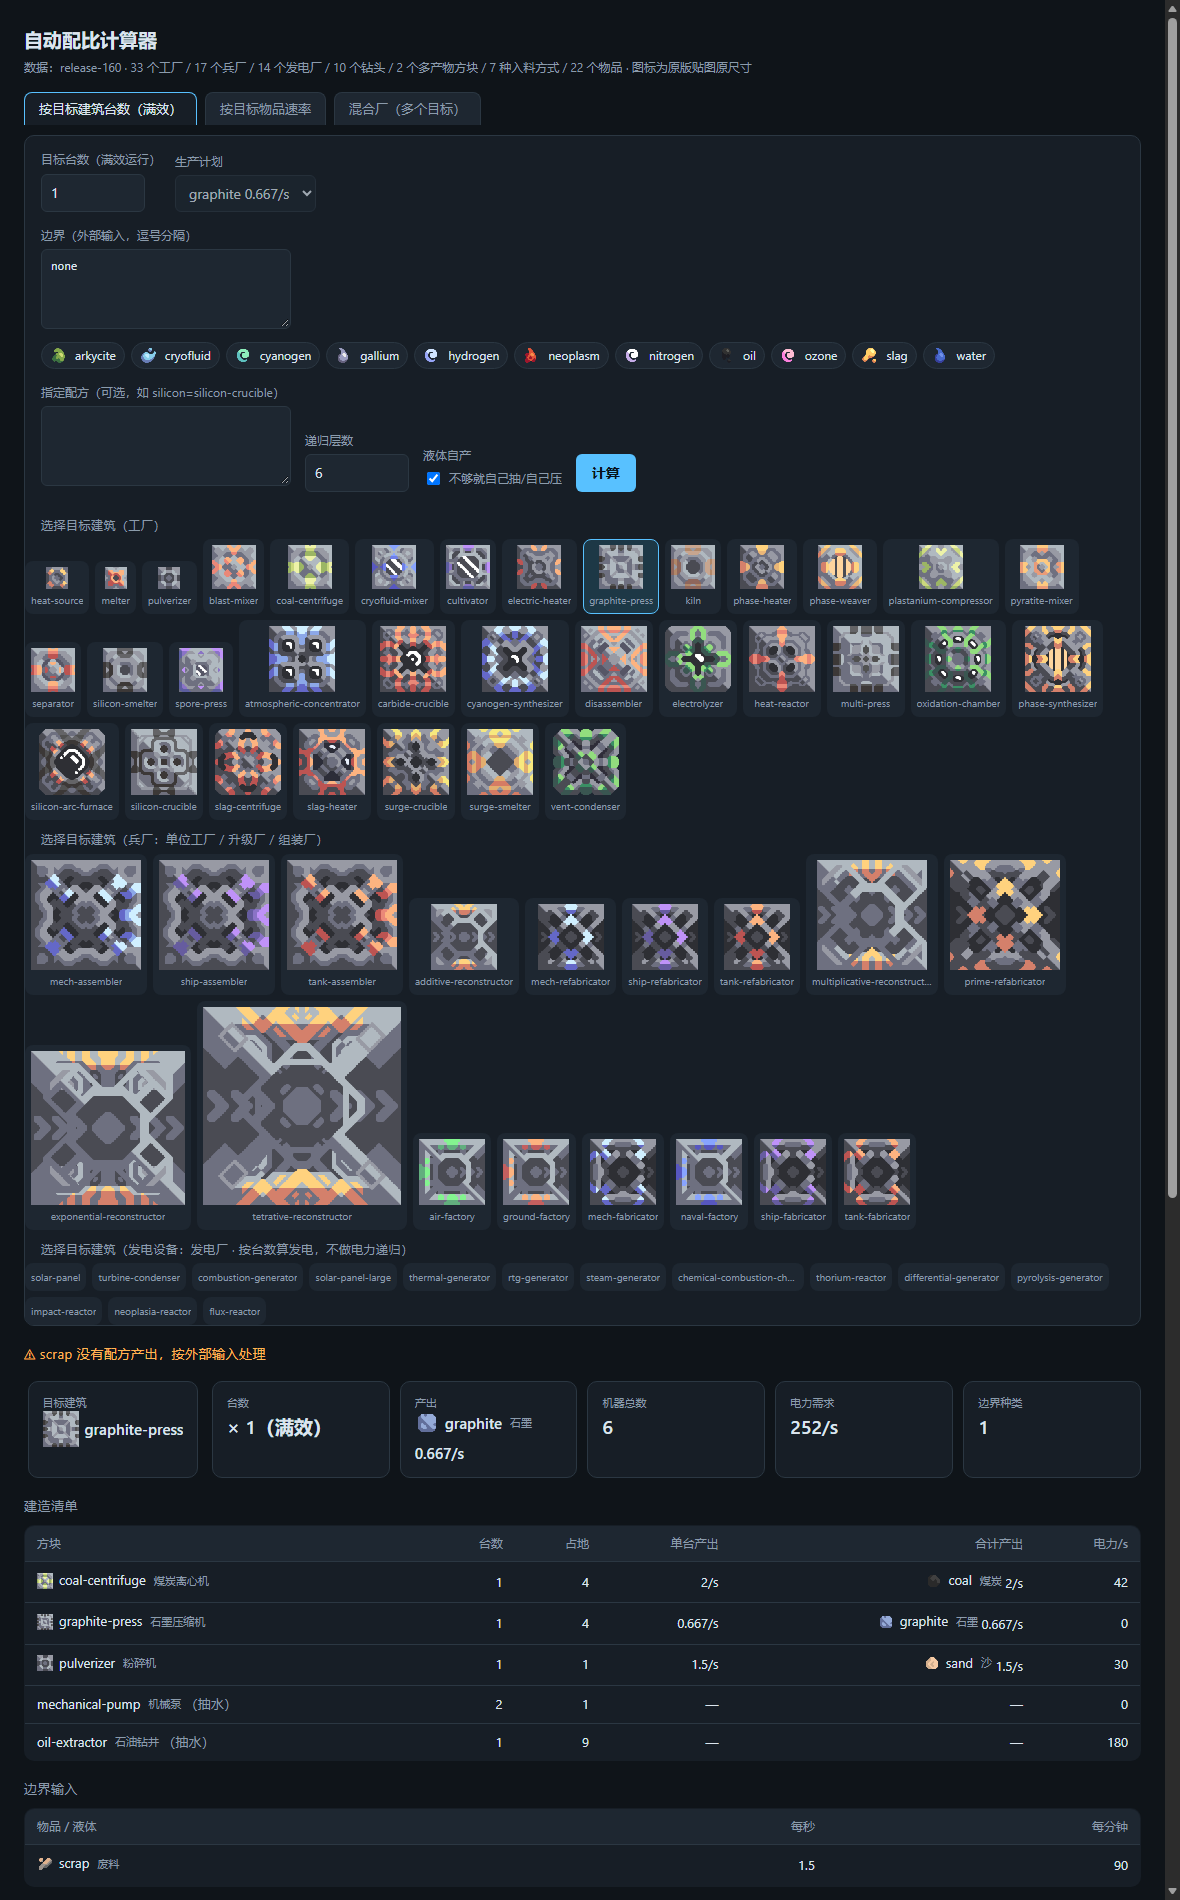
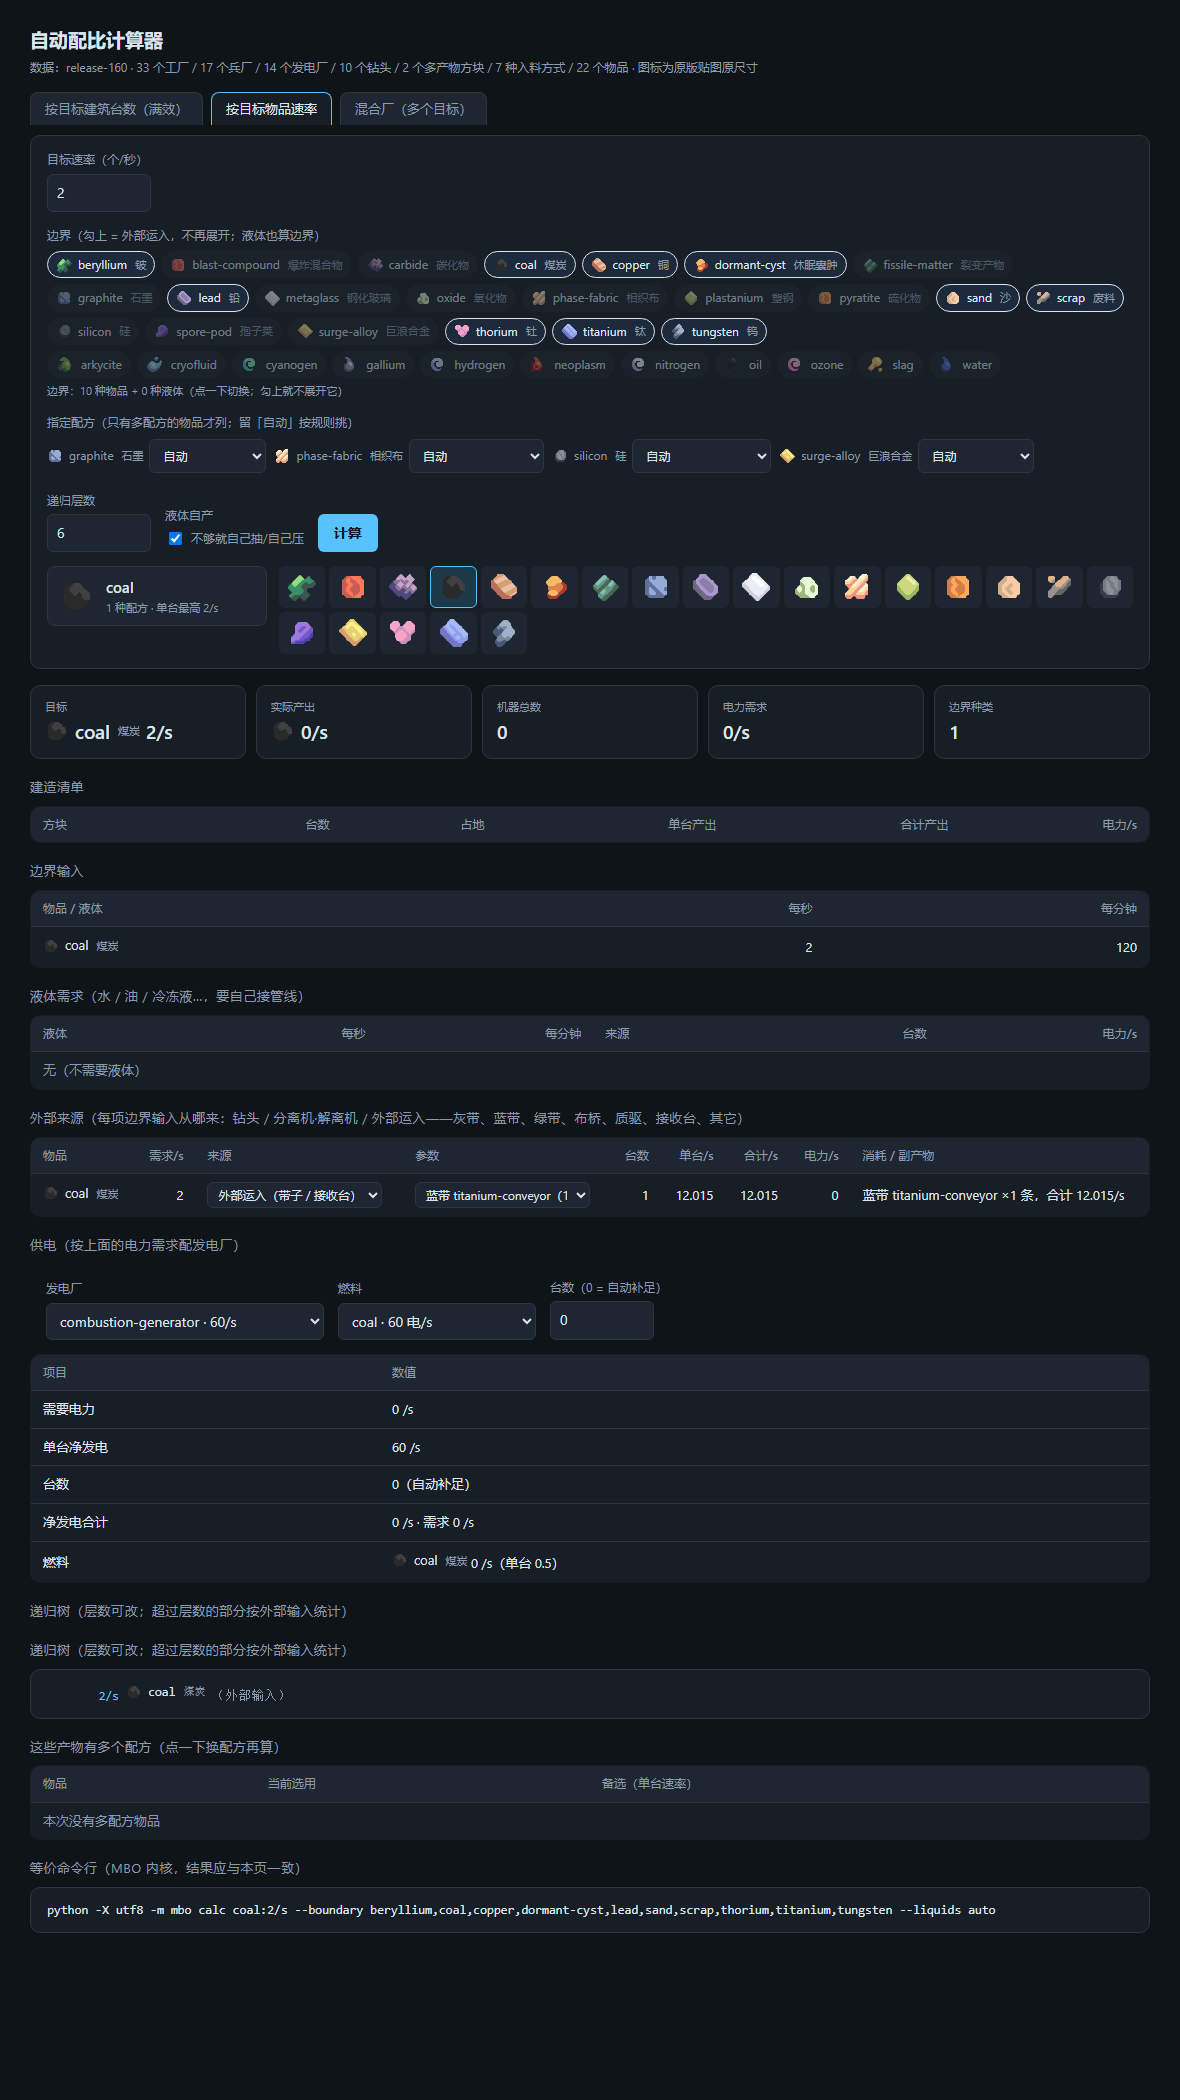
feat(ratio-calc): 边界改成全物品/液体开关、配方改成下拉，钻头并入工厂配比
- 页面不再有逗号文本输入：边界 = 22 物品 + 11 液体的芯片开关（点一下切换，勾上即外部运入），
  指定配方 = 每个多配方物品一行下拉（默认「自动」），两者都直接驱动 core，不再解析文本
- 钻头不再是「外部来源」里的另一类：machineRows 从 sources 取采集量，机器行写
  「laser-drill ×1 · 电 66/s · coal 3.234/s」，台数与电力计入工厂合计（页面/CLI/卡片一致）
- 卡片：机器行显示钻头采集量，抽水与外部电力换算保持独立小节
- 测试：core 148 行 ok、cli 55 项、page 88 项、card 10 项；gate 12/12

diff --git a/ratio-calc/index.html b/ratio-calc/index.html
@@ -83,7 +83,15 @@
   tr:last-child td { border-bottom: 0; }
   .sec { font-size: 13px; color: var(--dim); margin: 18px 0 8px; letter-spacing: .04em; }
   /* 混合厂目标清单 */
-  .mixlist { display: flex; flex-wrap: wrap; gap: 6px; margin-top: 6px; min-height: 26px; }
+  .mixlist{display:flex;flex-wrap:wrap;gap:6px;margin-top:6px;min-height:26px}
+  .barcol{flex:1 1 100%}
+  .hint{font-size:11px;color:var(--dim);margin-top:4px}
+  .chkgrid{display:flex;flex-wrap:wrap;gap:6px;margin-top:6px}
+  .chkgrid .chiptag{cursor:pointer;opacity:.45;border-color:transparent}
+  .chkgrid .chiptag.on{opacity:1;border-color:var(--accent);background:rgba(90,160,255,0.10)}
+  .forcerows{display:flex;flex-wrap:wrap;gap:8px;margin-top:6px}
+  .forcerow{display:flex;align-items:center;gap:6px;font-size:12px}
+  .forcerow select{max-width:210px}
   .chiptag { display: inline-flex; align-items: center; gap: 4px; padding: 3px 8px; font-size: 12px;
              background: var(--panel2); border: 1px solid var(--line); border-radius: 999px; }
   .chiptag img { image-rendering: pixelated; }
@@ -135,14 +143,17 @@
         <label for="rate">目标速率（个/秒）</label>
         <input id="rate" type="number" min="0.01" step="0.01" value="1">
       </div>
-      <div>
-        <label for="boundary">边界（外部输入，逗号分隔）</label>
-        <textarea id="boundary" spellcheck="false"></textarea>
-        <div class="mixlist" id="bndliq"></div>
+      <div class="barcol">
+        <label>边界（勾上 = 外部运入，不再展开；液体也算边界）</label>
+        <div class="chkgrid" id="bnditems"></div>
+        <div class="chkgrid" id="bndliqs"></div>
+        <div class="hint" id="bndhint"></div>
+        <input id="boundary" type="hidden">
       </div>
-      <div>
-        <label for="force">指定配方（可选，如 silicon=silicon-crucible）</label>
-        <textarea id="force" spellcheck="false"></textarea>
+      <div class="barcol">
+        <label>指定配方（只有多配方的物品才列；留「自动」按规则挑）</label>
+        <div class="forcerows" id="forcelist"></div>
+        <input id="force" type="hidden">
       </div>
       <div>
         <label for="depth">递归层数</label>
@@ -274,6 +285,8 @@
 
   var mode = "building";
   var curBlock = "graphite-press";
+  var boundarySet = new Set();  // 边界：物品 + 液体，都是开关
+  var forced = {};              // 指定配方：item -> block
   var mixTargets = [];        // 混合厂目标清单：[{block, count}]
 
   function img(src, cls, alt) {
@@ -312,8 +325,9 @@
   var defaults = new Set(
     names.filter(function (n) { return !idx.producersOf(n).length; }).concat(["coal", "sand"])
   );
-  el("boundary").value = Array.from(defaults).sort().join(", ");
-  renderBndLiq();
+  boundarySet = new Set(defaults);
+  renderBoundary();
+  renderForce();
 
   // 物品下拉（物品模式的取值来源）
   var targetSel = el("target");
@@ -977,9 +991,14 @@
     if (q.count && parseInt(q.count, 10) > 0) el("count").value = q.count;
     if (q.rate && parseFloat(q.rate) > 0) el("rate").value = q.rate;
     if (q.depth && parseInt(q.depth, 10) > 0) el("depth").value = q.depth;
-    if (q.boundary) el("boundary").value = q.boundary.replace(/\+/g, " ");
+    if (q.boundary) boundarySet = new Set(splitList(q.boundary.replace(/\+/g, " ")));
     if (q.liquids === "auto" && el("autoliq")) el("autoliq").checked = true;
-    if (q.force) el("force").value = q.force.replace(/\+/g, " ");
+    if (q.force) {
+      splitList(q.force.replace(/\+/g, " ")).forEach(function (part) {
+        var eq = part.indexOf("=");
+        if (eq > 0) forced[part.slice(0, eq).trim()] = part.slice(eq + 1).trim();
+      });
+    }
     if (q.mode === "item") mode = "item";
     if (q.mode === "mixed") mode = "mixed";
     // 混合厂：?mode=mixed&mix=silicon-arc-furnace:1,carbide-crucible:1
@@ -1041,24 +1060,46 @@
     (DATA.channels || []).length + " 种入料方式 / " +
     names.length + " 个物品 · 图标为原版贴图原尺寸";
 
-  /* 边界液体：点芯片把液体名加进/移出「边界」文本域（液体也是边界，列出来才知道煤处理线断在哪） */
-  function boundaryNames() { return splitList(el("boundary").value); }
-  function renderBndLiq() {
-    var cur = boundaryNames();
-    var liqs = Object.keys(DATA.liquid_icons || {}).sort();
-    el("bndliq").innerHTML = liqs.map(function (n) {
-      var on = cur.indexOf(n) >= 0;
-      return '<a class="chiptag' + (on ? " on" : "") + '" data-liq="' + n + '" title="' +
-        (on ? "从边界里去掉" : "加进边界（按外部运入，不再抽/压）") + '">' + liqDot(n) + " " + esc(n) + "</a>";
+  /* 边界 = 所有物品 + 所有液体的开关（不写文本，点一下切换） */
+  function boundaryNames() { return Array.from(boundarySet).sort(); }
+  function liqNames() { return Object.keys(DATA.liquid_icons || {}).sort(); }
+  function chip(n, on, attr) {
+    var body = (DATA.liquid_icons && DATA.liquid_icons[n]) ? (liqDot(n) + " " + esc(n)) : itemLabel(n, "sm");
+    return '<a class="chiptag' + (on ? " on" : "") + '" ' + attr + '="' + n + '" title="' +
+      (on ? "取消边界（会展开它的配方）" : "设为边界（按外部运入，不再展开）") + '">' + body + "</a>";
+  }
+  function renderBoundary() {
+    el("bnditems").innerHTML = names.slice().sort().map(function (n) {
+      return chip(n, boundarySet.has(n), "data-bnd");
+    }).join("");
+    el("bndliqs").innerHTML = liqNames().map(function (n) {
+      return chip(n, boundarySet.has(n), "data-bnd");
+    }).join("");
+    var liqSet = {};
+    liqNames().forEach(function (n) { liqSet[n] = 1; });
+    var ni = boundaryNames().filter(function (n) { return !liqSet[n]; }).length;
+    el("bndhint").textContent = "边界：" + ni + " 种物品 + " + (boundaryNames().length - ni) +
+      " 种液体（点一下切换；勾上就不展开它）";
+  }
+  function toggleBoundary(n) {
+    if (boundarySet.has(n)) boundarySet.delete(n); else boundarySet.add(n);
+    renderBoundary();
+    run();
+  }
+  function renderForce() {
+    var list = names.slice().sort().filter(function (n) { return idx.producersOf(n).length >= 2; });
+    el("forcelist").innerHTML = list.map(function (n) {
+      var opts = ['<option value="">自动</option>'].concat(idx.producersOf(n).map(function (b) {
+        return '<option value="' + b.name + '"' + (forced[n] === b.name ? " selected" : "") + ">" +
+          esc(b.name) + "</option>";
+      })).join("");
+      return '<label class="forcerow">' + itemLabel(n, "sm") +
+        '<select data-force="' + n + '">' + opts + "</select></label>";
     }).join("");
   }
-  function toggleBndLiq(n) {
-    var cur = boundaryNames();
-    var at = cur.indexOf(n);
-    if (at >= 0) cur.splice(at, 1); else cur.push(n);
-    el("boundary").value = cur.join(", ");
-    renderBndLiq();
-    run();
+  function setForced(item, block) {
+    if (block) forced[item] = block; else delete forced[item];
+    renderForce();
   }
 
   function splitList(text) {
@@ -1092,8 +1133,7 @@
       renderMixList();
       return;
     }
-    var boundary = splitList(el("boundary").value);
-    var forced = parseForce(el("force").value);
+    var boundary = boundaryNames();
     var depth = Math.max(1, Math.min(12, parseInt(el("depth").value, 10) || 6));
     var liqOpt = el("autoliq") && el("autoliq").checked ? { liquids: "auto" } : {};
     var res;
@@ -1291,9 +1331,7 @@
         ev.preventDefault();
         var f = a.getAttribute("data-f");
         var parts = f.split("=");
-        var cur = parseForce(el("force").value);
-        cur[parts[0]] = parts[1];
-        el("force").value = Object.keys(cur).map(function (k) { return k + "=" + cur[k]; }).join(", ");
+        setForced(parts[0], parts[1]);
         run();
       });
     });
@@ -1375,9 +1413,15 @@
   syncBlockSel();
   syncPicker();
   if (mode === "item" || mode === "mixed") setMode(mode); else run();
-  el("bndliq").addEventListener("click", function (ev) {
-    var a = ev.target.closest("[data-liq]");
-    if (a) { ev.preventDefault(); toggleBndLiq(a.getAttribute("data-liq")); }
+  ["bnditems", "bndliqs"].forEach(function (id) {
+    el(id).addEventListener("click", function (ev) {
+      var a = ev.target.closest("[data-bnd]");
+      if (a) { ev.preventDefault(); toggleBoundary(a.getAttribute("data-bnd")); }
+    });
+  });
+  el("forcelist").addEventListener("change", function (ev) {
+    var sel = ev.target.closest("[data-force]");
+    if (sel) { setForced(sel.getAttribute("data-force"), sel.value); run(); }
   });
   el("run").addEventListener("click", run);
   el("rate").addEventListener("keydown", function (e) { if (e.key === "Enter") run(); });
@@ -1424,16 +1468,28 @@
                        return { table: el("chaintable").innerHTML, res: el("chainres").innerHTML };
                      },
                      chainRes: function () { return el("chainres").innerHTML; },
-                     /* 边界液体芯片：__ratio.bndliq("oil") 切换、__ratio.bndliq() 只看不切 */
-                     bndliq: function (n) {
-                       if (n) { toggleBndLiq(n); return el("boundary").value; }
-                       renderBndLiq();
-                       return el("bndliq").innerHTML;
+                     /* 边界开关：__ratio.bnd("oil") 切换、__ratio.bnd() 只看不切 */
+                     bnd: function (n) {
+                       if (n) { toggleBoundary(n); return boundaryNames(); }
+                       return boundaryNames();
+                     },
+                     setBoundary: function (text) {
+                       boundarySet = new Set(splitList(String(text == null ? "" : text)));
+                       renderBoundary();
+                       run();
+                       return boundaryNames();
+                     },
+                     force: function (item, block) {
+                       if (item) { setForced(item, block || ""); run(); }
+                       return Object.assign({}, forced);
                      },
                      /* 液体自产开关：__ratio.autoliq(true) */
                      autoliq: function (on, boundaryText) {
                        if (on != null) el("autoliq").checked = !!on;
-                       if (boundaryText != null) el("boundary").value = boundaryText;
+                       if (boundaryText != null) {
+                         boundarySet = new Set(splitList(boundaryText));
+                         renderBoundary();
+                       }
                        run();
                        return el("autoliq").checked;
                      },

diff --git a/ratio-calc/core.js b/ratio-calc/core.js
@@ -1584,8 +1584,18 @@
       var b = anyBlock(idx, name);
       var count = result.machines[name];
       var outputs = [];
+      var drillOuts = [];
       if (b && b.kind === "drill") {
-        outputs = ["采集（见外部来源）"];
+        /* 钻头就是工厂配比里的一员：写清采集什么、每台多少、合计多少（数据来自 applySources 的来源行） */
+        (result.sources || []).forEach(function (x) {
+          if (x.drill !== name) return;
+          drillOuts.push({ name: x.item, type: "item",
+                           perSecond: (x.perSecondEach || 0) * (x.count || 0),
+                           perSecondEach: x.perSecondEach || 0 });
+        });
+        outputs = drillOuts.length
+          ? drillOuts.map(function (o) { return "采集 " + o.name + " " + round(o.perSecond) + "/s"; })
+          : ["采集（未指定来源）"];
       } else if (b && b.kind === "generator") {
         var sup = result.supply || {};
         /* 混合厂里一台发电设备的净发电记在 result.generatorNet 上；单目标展开用 result.supply */
@@ -1620,10 +1630,12 @@
         powerTotal: b ? b.power * count : 0,
         outItems: b ? (b.kind === "generator"
           ? [{ name: "电力", type: "power", perSecond: round(genNet || 0) }]
-          : b.outputs.map(function (o) {
+          : (b.kind === "drill" ? drillOuts : b.outputs.map(function (o) {
               return { name: o.name, type: "item", perSecond: o.amount * b.cps * count };
-            })) : [],
-        rateEach: b ? (b.kind === "unit"
+            }))) : [],
+        rateEach: b ? (b.kind === "drill"
+          ? (drillOuts.length ? drillOuts[0].perSecondEach : 0)
+          : b.kind === "unit"
           ? ((b.plans && b.plans[0]) ? b.plans[0].perSecond : b.cps)
           : (b.outputs.length ? b.outputs[0].amount * b.cps : 0)) : 0,
         outputs: outputs

diff --git a/ratio-calc/card.py b/ratio-calc/card.py
@@ -201,7 +201,7 @@ def _machine_section(c, res):
         if m.get("powerTotal"):
             bits.append("电 %s/s" % fmt(m["powerTotal"]))
         outs = [o for o in (m.get("outItems") or []) if o.get("perSecond")]
-        if outs and m.get("kind") in ("item", "unit", "generator"):
+        if outs and m.get("kind") in ("item", "unit", "generator", "drill"):
             bits.append("、".join("%s %s/s" % (o["name"], fmt(o["perSecond"])) for o in outs[:2]))
         c.row(m.get("icon"), m.get("name") or "?", "×%d" % int(m.get("count") or 0),
               " · ".join(bits) or None)
